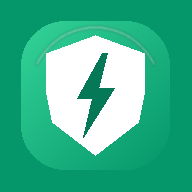
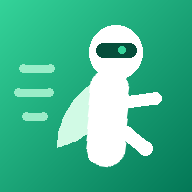
855887d4-d950-416f-8040-b48b31f642c8

diff --git a/src/lib/page.tsx b/src/lib/page.tsx
@@ -1,0 +1,98 @@
+"use client";
+
+import { useCallback, useState } from "react";
+import { Arena } from "@/components/arena";
+import { LearningCenter } from "@/components/learning-center";
+import { AboutPanel } from "@/components/about-panel";
+import { FeedbackDialog } from "@/components/feedback-dialog";
+import { Logo } from "@/components/logo";
+import { Button } from "@/components/ui/button";
+import { APP_VERSION, GITHUB_HOME } from "@/lib/version";
+import { cn } from "@/lib/utils";
+import {
+  Zap, Swords, BrainCircuit, Info, MessageSquareWarning, Github, ShieldCheck,
+} from "lucide-react";
+
+const TABS = [
+  { key: "arena", label: "演练场", icon: Swords },
+  { key: "learning", label: "学习中心", icon: BrainCircuit },
+  { key: "about", label: "关于", icon: Info },
+] as const;
+
+type TabKey = (typeof TABS)[number]["key"];
+
+export default function Home() {
+  const [tab, setTab] = useState<TabKey>("arena");
+  const [feedbackOpen, setFeedbackOpen] = useState(false);
+  const openFeedback = useCallback(() => setFeedbackOpen(true), []);
+
+  return (
+    <div className="flex min-h-screen flex-col bg-zinc-100/70">
+      {/* 顶栏 */}
+      <header className="sticky top-0 z-30 border-b border-zinc-200 bg-white/85 backdrop-blur">
+        <div className="mx-auto flex max-w-7xl flex-wrap items-center gap-3 px-4 py-2.5 lg:px-6">
+          <div className="flex items-center gap-2.5">
+            <Logo size={38} />
+            <div>
+              <h1 className="flex items-center gap-2 text-[15px] font-bold leading-tight text-zinc-900">
+                开屏卫士 · Skip-Ad
+                <span className="rounded-full bg-emerald-50 px-1.5 py-0.5 text-[10px] font-bold text-emerald-700 ring-1 ring-emerald-200">
+                  v{APP_VERSION}
+                </span>
+              </h1>
+              <p className="text-[11px] text-zinc-500">GKD 订阅融合 · 双引擎规则 · 露头秒跳 · 开启一次持续守护</p>
+            </div>
+          </div>
+
+          <div className="ml-auto flex items-center gap-2">
+            <span className="hidden items-center gap-1.5 rounded-full bg-emerald-50 px-2.5 py-1 text-[11px] font-bold text-emerald-700 ring-1 ring-emerald-200 sm:flex">
+              <span className="relative flex h-2 w-2">
+                <span className="absolute inline-flex h-full w-full animate-ping rounded-full bg-emerald-400 opacity-60" />
+                <span className="relative inline-flex h-2 w-2 rounded-full bg-emerald-500" />
+              </span>
+              <ShieldCheck className="h-3 w-3" /> 守护服务运行中
+            </span>
+            <Button size="sm" data-testid="btn-feedback" className="h-8 rounded-lg bg-zinc-900 hover:bg-zinc-700" onClick={openFeedback}>
+              <MessageSquareWarning className="mr-1 h-3.5 w-3.5" /> 反馈
+            </Button>
+          </div>
+        </div>
+
+        {/* 主导航 */}
+        <nav className="mx-auto flex max-w-7xl gap-1 overflow-x-auto px-3 pb-2 lg:px-5" aria-label="主导航">
+          {TABS.map(({ key, label, icon: Icon }) => (
+            <button
+              key={key}
+              type="button"
+              data-testid={`tab-${key}`}
+              onClick={() => setTab(key)}
+              className={cn(
+                "flex shrink-0 items-center gap-1.5 rounded-xl px-3.5 py-2 text-[13px] font-bold transition",
+                tab === key ? "bg-zinc-900 text-white shadow-sm" : "text-zinc-500 hover:bg-zinc-100 hover:text-zinc-800",
+              )}
+            >
+              <Icon className="h-4 w-4" /> {label}
+            </button>
+          ))}
+        </nav>
+      </header>
+
+      {/* 内容区 */}
+      <main className="mx-auto w-full max-w-7xl flex-1 p-4 lg:p-6">
+        {tab === "arena" && <Arena onFeedback={openFeedback} />}
+        {tab === "learning" && <LearningCenter />}
+        {tab === "about" && <AboutPanel />}
+      </main>
+
+      {/* 页脚 */}
+      <footer className="border-t border-zinc-200 bg-white/60 py-3 text-center text-[11px] leading-relaxed text-zinc-400">
+        Skip-Ad 秒跳引擎 · 学习规则每晚 02:00 自动同步 GitHub ·
+        <a href={GITHUB_HOME} target="_blank" rel="noreferrer" className="mx-1 inline-flex items-center gap-0.5 text-violet-600 hover:underline">
+          <Github className="h-3 w-3" /> xiaobaiba999/Skip-Ad
+        </a>
+      </footer>
+
+      <FeedbackDialog open={feedbackOpen} onOpenChange={setFeedbackOpen} />
+    </div>
+  );
+}

diff --git a/src/lib/version.ts b/src/lib/version.ts
@@ -1,6 +1,6 @@
 /** 版本与 GitHub 仓库信息（Web 端与发布节奏共用） */
-export const APP_VERSION = "3.14.0";
-export const VERSION_CODE = 31400; // major*10000 + minor*100 + patch，随版本单调递增
+export const APP_VERSION = "4.0.0";
+export const VERSION_CODE = 40000; // major*10000 + minor*100 + patch，随版本单调递增
 export const GITHUB_REPO = "xiaobaiba999/Skip-Ad";
 export const GITHUB_API = `https://api.github.com/repos/${GITHUB_REPO}`;
 export const GITHUB_HOME = `https://github.com/${GITHUB_REPO}`;
@@ -19,15 +19,25 @@ export interface VersionEntry {
  *  旧版本内容归档在 GitHub Releases 与 git 历史） */
 export const VERSION_HISTORY: VersionEntry[] = [
   {
+    version: "4.0.0",
+    code: 40000,
+    date: "2026-11-17",
+    tagline: "GKD 订阅生态接入 · 双引擎规则 · 全新界面",
+    notes: [
+      "接入 GKD 订阅生态：粘贴任意 gkd.li 社区订阅链接即可导入规则（选择器引擎兼容 GKD 语法），远程订阅 24 小时自动静默更新",
+      "内置规则库双引擎：文案五层规则 + 控件 ID（vid）规则，21 款主流应用内嵌，安装即用零配置",
+      "全新绿色主题界面：跳跳侠吉祥物 + 三页极简（首页/订阅/我的），去除冗余字段与说明文字",
+      "安全红线不变：订阅规则仅支持点击类动作，back 类规则在加载时直接丢弃（链式拦截红线）",
+    ],
+  },
+  {
     version: "3.14.0",
     code: 31400,
     date: "2026-11-17",
     tagline: "跳过后反馈弹窗自动收起 · 秒跳再提速 · ADB 自愈移除",
     notes: [
-      "跳过广告后弹出的「不喜欢/反馈」面板（喜马拉雅 10 次有 8 次）自动点「取消」收起，绝不替你提交任何反馈；面板出现即确认广告已关，不再无谓换候选重试",
-      "露头就秒再提速：手势被系统中断时退冷却 + 350ms 快速重试（此前最长 4s+）；晚渲染跳过键补扫节流 80→50ms",
-      "ADB 自愈授权整体移除（要电脑执行太麻烦）：开启服务一步直达系统开关，开启一次持续守护，退出 App/清理后台重进无需重新开启",
-      "界面与代码瘦身：删 ADB 授权卡、内部版本号等冗余字段与孤儿代码，关于页三版描述言简意赅",
+      "跳过广告后弹出的「不喜欢/反馈」面板（喜马拉雅 10 次有 8 次）自动点「取消」收起，绝不替你提交任何反馈",
+      "露头就秒再提速：手势被系统中断时 350ms 快速重试；ADB 自愈授权移除，开启服务一步直达",
     ],
   },
   {
@@ -36,19 +46,8 @@ export const VERSION_HISTORY: VersionEntry[] = [
     date: "2026-11-17",
     tagline: "验证码横幅四重防护 · 息屏零动作 · 夜间心跳降频",
     notes: [
-      "验证码/短信/来电横幅四重防护：覆盖层包事件直接丢弃、验证码文案窗口绝不扫描、触点被横幅覆盖时拒发手势、横幅在场绝不派返回键",
+      "验证码/短信/来电横幅四重防护：横幅上的验证码绝不被点掉",
       "待机功耗治理：息屏不扫描不点击不学习；夜间心跳改 30~45 分钟窗口式闹钟，绝不唤醒设备",
-      "安全中心等系统工具包位置学习永久拒收；误触观察口径修正",
-    ],
-  },
-  {
-    version: "3.12.0",
-    code: 31200,
-    date: "2026-11-17",
-    tagline: "纯跳过引擎 · 链式拦截整体移除",
-    notes: [
-      "链式拦截机制整体移除：只点「跳过/关闭」，绝不对抗你的任何跳转（分享、NFC 支付等用户意图场景无法穷举，任何安全门都有漏网时刻）",
-      "系统连接诊断页循环误点归零；界面撤下「跳转回弹」开关与统计",
     ],
   },
 ];

diff --git a/src/components/logo.tsx b/src/components/logo.tsx
@@ -1,29 +1,39 @@
 /**
- * Skip-Ad 品牌标识（v3.5.0 全新设计 · 绿色）
- * 翡翠渐变盾牌 + 深绿闪电：守护（盾）+ 秒跳（闪电）。
- * 与 APK 启动器图标 / 通知图标 / 应用内 Logo 同源设计。
+ * 开屏卫士品牌标识（v4.0.0 全新设计 · 跳跳侠）
+ * 戴风镜的冲刺小人 + 飞披风 + 速度线：广告露头就被跳走。
+ * 与 APK 启动器图标 / 应用内吉祥物同源设计（96 视口几何）。
  */
 export function Logo({ size = 36, className }: { size?: number; className?: string }) {
   return (
     <svg
-      viewBox="0 0 48 48"
+      viewBox="0 0 96 96"
       width={size}
       height={size}
       fill="none"
       xmlns="http://www.w3.org/2000/svg"
       className={className}
-      aria-label="Skip-Ad"
+      aria-label="开屏卫士"
       role="img"
     >
-      <defs>
-        <linearGradient id="logo-shield-grad" x1="7" y1="5" x2="41" y2="43" gradientUnits="userSpaceOnUse">
-          <stop stopColor="#34D399" />
-          <stop offset="1" stopColor="#059669" />
-        </linearGradient>
-      </defs>
-      <path d="M24 3 L41 9 C41 26 35 39 24 45 C13 39 7 26 7 9 Z" fill="url(#logo-shield-grad)" />
-      <path d="M27.5 10.5 L17.5 26 h5.5 L20 37.5 L30.5 20.5 h-5.5 Z" fill="#047857" />
-      <path d="M24 3 L41 9 C41 12.5 40.6 15.7 40 18.7 C33 15.2 15 15.2 8 18.7 C7.4 15.7 7 12.5 7 9 Z" fill="#fff" fillOpacity="0.14" />
+      {/* 速度线 */}
+      <g stroke="#6EE7B7" strokeWidth="5" strokeLinecap="round">
+        <line x1="6" y1="32" x2="22" y2="32" />
+        <line x1="3" y1="46" x2="21" y2="46" />
+        <line x1="8" y1="60" x2="18" y2="60" />
+      </g>
+      {/* 披风 */}
+      <path d="M47 40 Q26 56 26 78 Q35 76 44 70 L52 66 L48 42 Z" fill="#059669" />
+      {/* 腿 */}
+      <path d="M58 72 L48 83" stroke="#10B981" strokeWidth="9" strokeLinecap="round" />
+      <path d="M66 70 L77 79" stroke="#10B981" strokeWidth="9" strokeLinecap="round" />
+      {/* 身体（前倾胶囊） */}
+      <rect x="42.5" y="32.5" width="23" height="57" rx="11.5" fill="#10B981" transform="rotate(-8 56 60)" />
+      {/* 前臂 */}
+      <path d="M65 52 L83 50" stroke="#10B981" strokeWidth="8" strokeLinecap="round" />
+      {/* 脑袋 + 风镜 */}
+      <circle cx="60" cy="23" r="15.5" fill="#10B981" />
+      <rect x="48.5" y="17.2" width="23" height="8.5" rx="4.2" fill="#052E1C" />
+      <circle cx="63.5" cy="21.5" r="2" fill="#A7F3D0" />
     </svg>
   );
 }

diff --git a/src/lib/logo.tsx b/src/lib/logo.tsx
@@ -1,0 +1,39 @@
+/**
+ * 开屏卫士品牌标识（v4.0.0 全新设计 · 跳跳侠）
+ * 戴风镜的冲刺小人 + 飞披风 + 速度线：广告露头就被跳走。
+ * 与 APK 启动器图标 / 应用内吉祥物同源设计（96 视口几何）。
+ */
+export function Logo({ size = 36, className }: { size?: number; className?: string }) {
+  return (
+    <svg
+      viewBox="0 0 96 96"
+      width={size}
+      height={size}
+      fill="none"
+      xmlns="http://www.w3.org/2000/svg"
+      className={className}
+      aria-label="开屏卫士"
+      role="img"
+    >
+      {/* 速度线 */}
+      <g stroke="#6EE7B7" strokeWidth="5" strokeLinecap="round">
+        <line x1="6" y1="32" x2="22" y2="32" />
+        <line x1="3" y1="46" x2="21" y2="46" />
+        <line x1="8" y1="60" x2="18" y2="60" />
+      </g>
+      {/* 披风 */}
+      <path d="M47 40 Q26 56 26 78 Q35 76 44 70 L52 66 L48 42 Z" fill="#059669" />
+      {/* 腿 */}
+      <path d="M58 72 L48 83" stroke="#10B981" strokeWidth="9" strokeLinecap="round" />
+      <path d="M66 70 L77 79" stroke="#10B981" strokeWidth="9" strokeLinecap="round" />
+      {/* 身体（前倾胶囊） */}
+      <rect x="42.5" y="32.5" width="23" height="57" rx="11.5" fill="#10B981" transform="rotate(-8 56 60)" />
+      {/* 前臂 */}
+      <path d="M65 52 L83 50" stroke="#10B981" strokeWidth="8" strokeLinecap="round" />
+      {/* 脑袋 + 风镜 */}
+      <circle cx="60" cy="23" r="15.5" fill="#10B981" />
+      <rect x="48.5" y="17.2" width="23" height="8.5" rx="4.2" fill="#052E1C" />
+      <circle cx="63.5" cy="21.5" r="2" fill="#A7F3D0" />
+    </svg>
+  );
+}

diff --git a/src/app/page.tsx b/src/app/page.tsx
@@ -32,17 +32,15 @@ export default function Home() {
       <header className="sticky top-0 z-30 border-b border-zinc-200 bg-white/85 backdrop-blur">
         <div className="mx-auto flex max-w-7xl flex-wrap items-center gap-3 px-4 py-2.5 lg:px-6">
           <div className="flex items-center gap-2.5">
-            <span className="flex h-9 w-9 items-center justify-center rounded-xl bg-gradient-to-br from-emerald-400 to-emerald-600 shadow-md shadow-emerald-500/30">
-              <Logo size={26} />
-            </span>
+            <Logo size={38} />
             <div>
               <h1 className="flex items-center gap-2 text-[15px] font-bold leading-tight text-zinc-900">
-                Skip-Ad · 秒跳引擎
+                开屏卫士 · Skip-Ad
                 <span className="rounded-full bg-emerald-50 px-1.5 py-0.5 text-[10px] font-bold text-emerald-700 ring-1 ring-emerald-200">
                   v{APP_VERSION}
                 </span>
               </h1>
-              <p className="text-[11px] text-zinc-500">内置五层规则引擎 · 0ms 露头秒跳 · 学习中心 · 保活</p>
+              <p className="text-[11px] text-zinc-500">GKD 订阅融合 · 双引擎规则 · 露头秒跳 · 开启一次持续守护</p>
             </div>
           </div>
 
